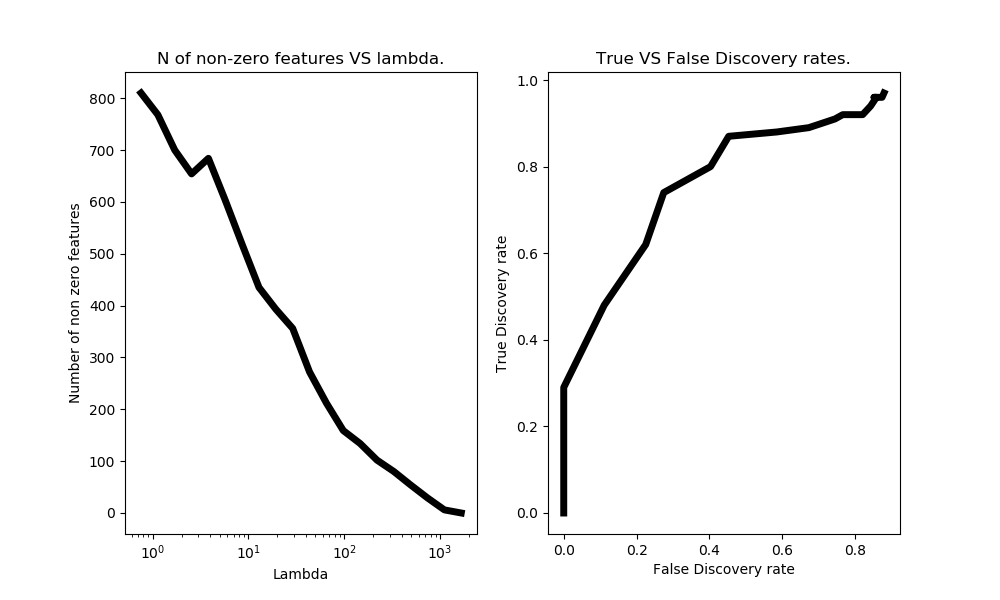
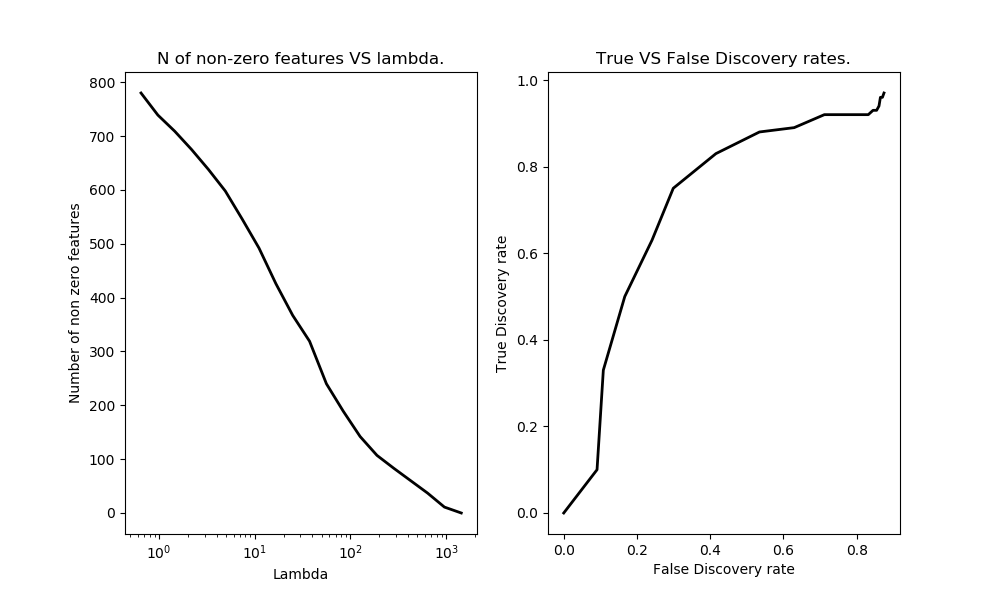
Beautify plots.

diff --git a/HW2/HW2_code_solutions/coordinate_descent.py b/HW2/HW2_code_solutions/coordinate_descent.py
@@ -162,7 +162,7 @@ def A4setup(n=500, d=1000, k=100, sigma=1):
     return x, y, maxLambda, params
 
 
-def plot(ax, x, y, label="", xlabel="", ylabel="", title="", xlog=True, lc='black', lw=5):
+def plot(ax, x, y, label="", xlabel="", ylabel="", title="", xlog=True, lc='black', lw=2):
     """Plots a line on given axis.
 
     Parameters
@@ -252,8 +252,6 @@ def A4(nIter=20, tolerance=0.001):
          ylabel="True Discovery rate", title="True VS False Discovery rates.",
          xlog=False)
     plt.show()
-
-
 
 
 if __name__ == "__main__":
